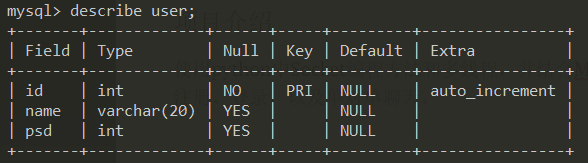
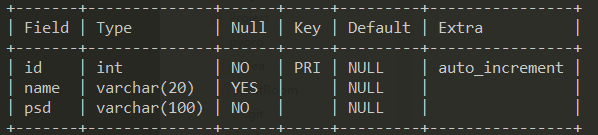
use hashlib

diff --git a/database/Database.py b/database/Database.py
@@ -9,6 +9,7 @@
 '''
 
 import mysql.connector as connect
+import hashlib
 
 ''':param
 Host:服务器地址
@@ -24,10 +25,14 @@ Table = 'user'
 con = connect.connect(host=Host, user=User, password=Password, database=Database)
 cursor = con.cursor()
 
+md5 = hashlib.md5()
+
 
 def insertUser(name, psd):
+    psd = psd + "mysalt"
+    md5.update(psd.encode(encoding="utf-8"))
     insert = "insert into " + Table + "(name,psd) values(%s,%s)"
-    values = [name, psd]
+    values = [name, md5.hexdigest()]
     cursor.execute(insert, values)
     print(cursor)
     con.commit()

diff --git a/README.md b/README.md
@@ -56,9 +56,14 @@ Mysql=8.0.22.0
 
 3、结果展示![result](photo/chat.png)
 
-
 ### Release-2021/1/31
 
 1、移除服务器端的GUI界面
 
 2、使用epoll对所有的socket进行管理，并进行消息转发（转发时不对消息进行解码）
+
+### Release-2021/2/15
+
+1、修改数据库*psd*字段属性由*int*改为*varchar(100)*
+
+2、使用摘要算法对保存的密码进行加密处理，使用了“**加盐**”
